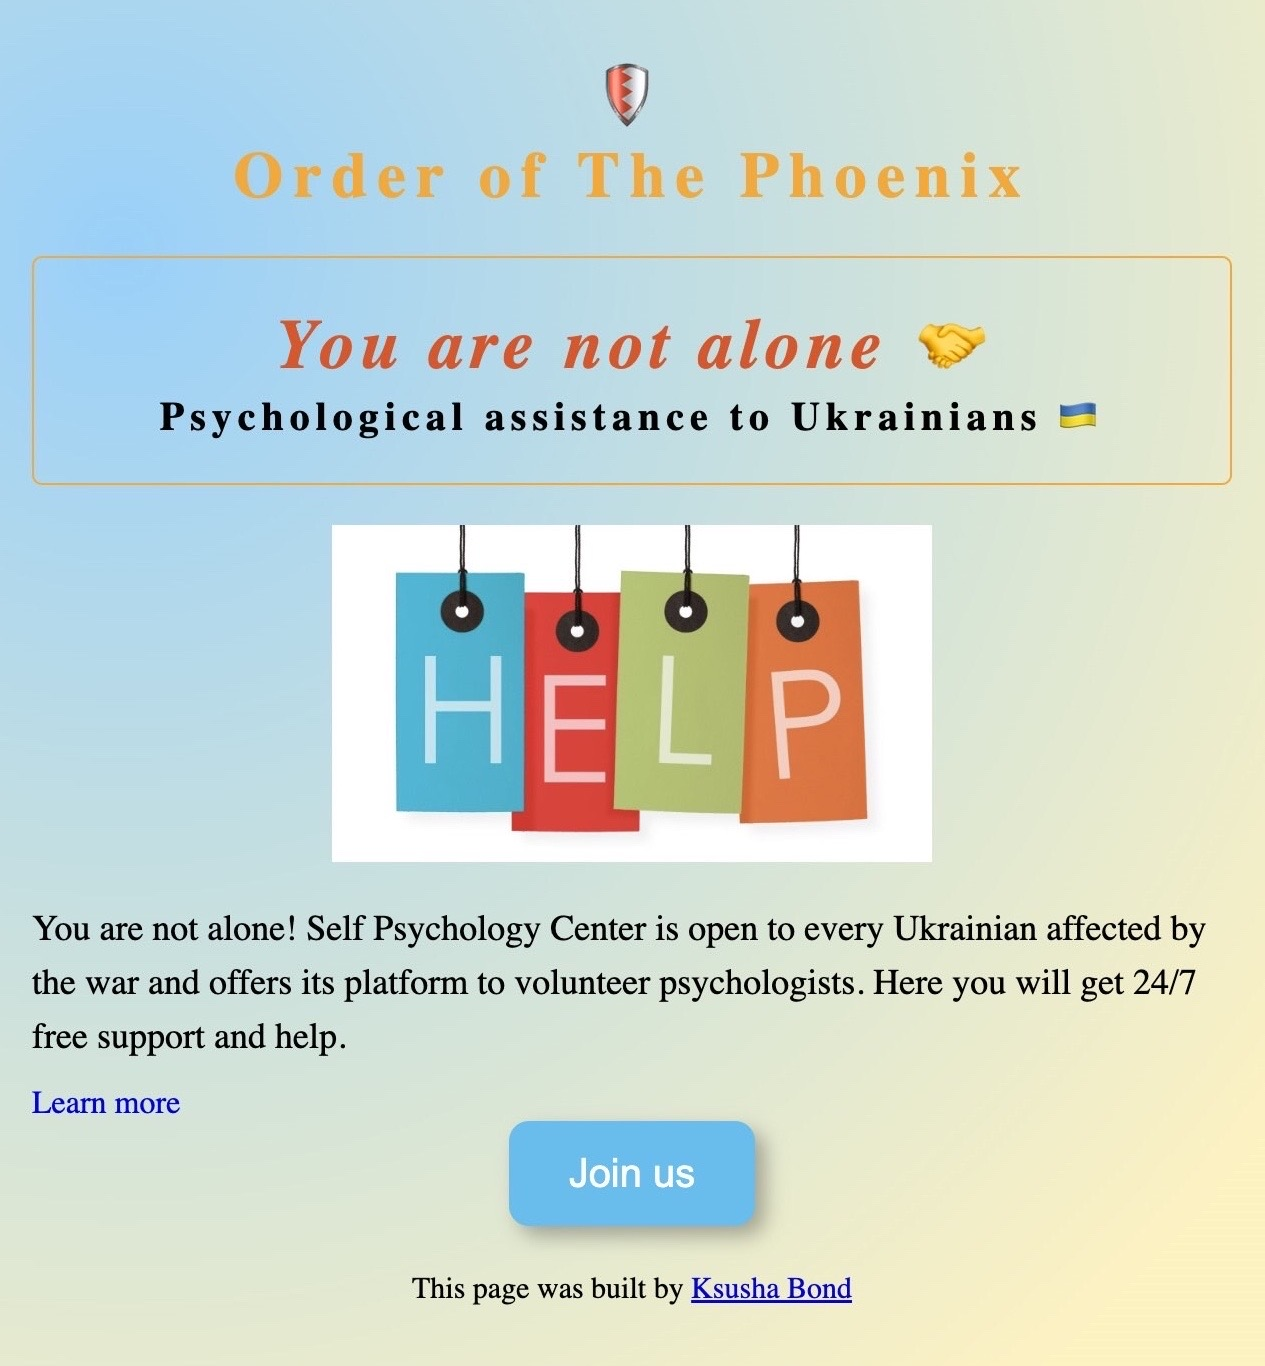
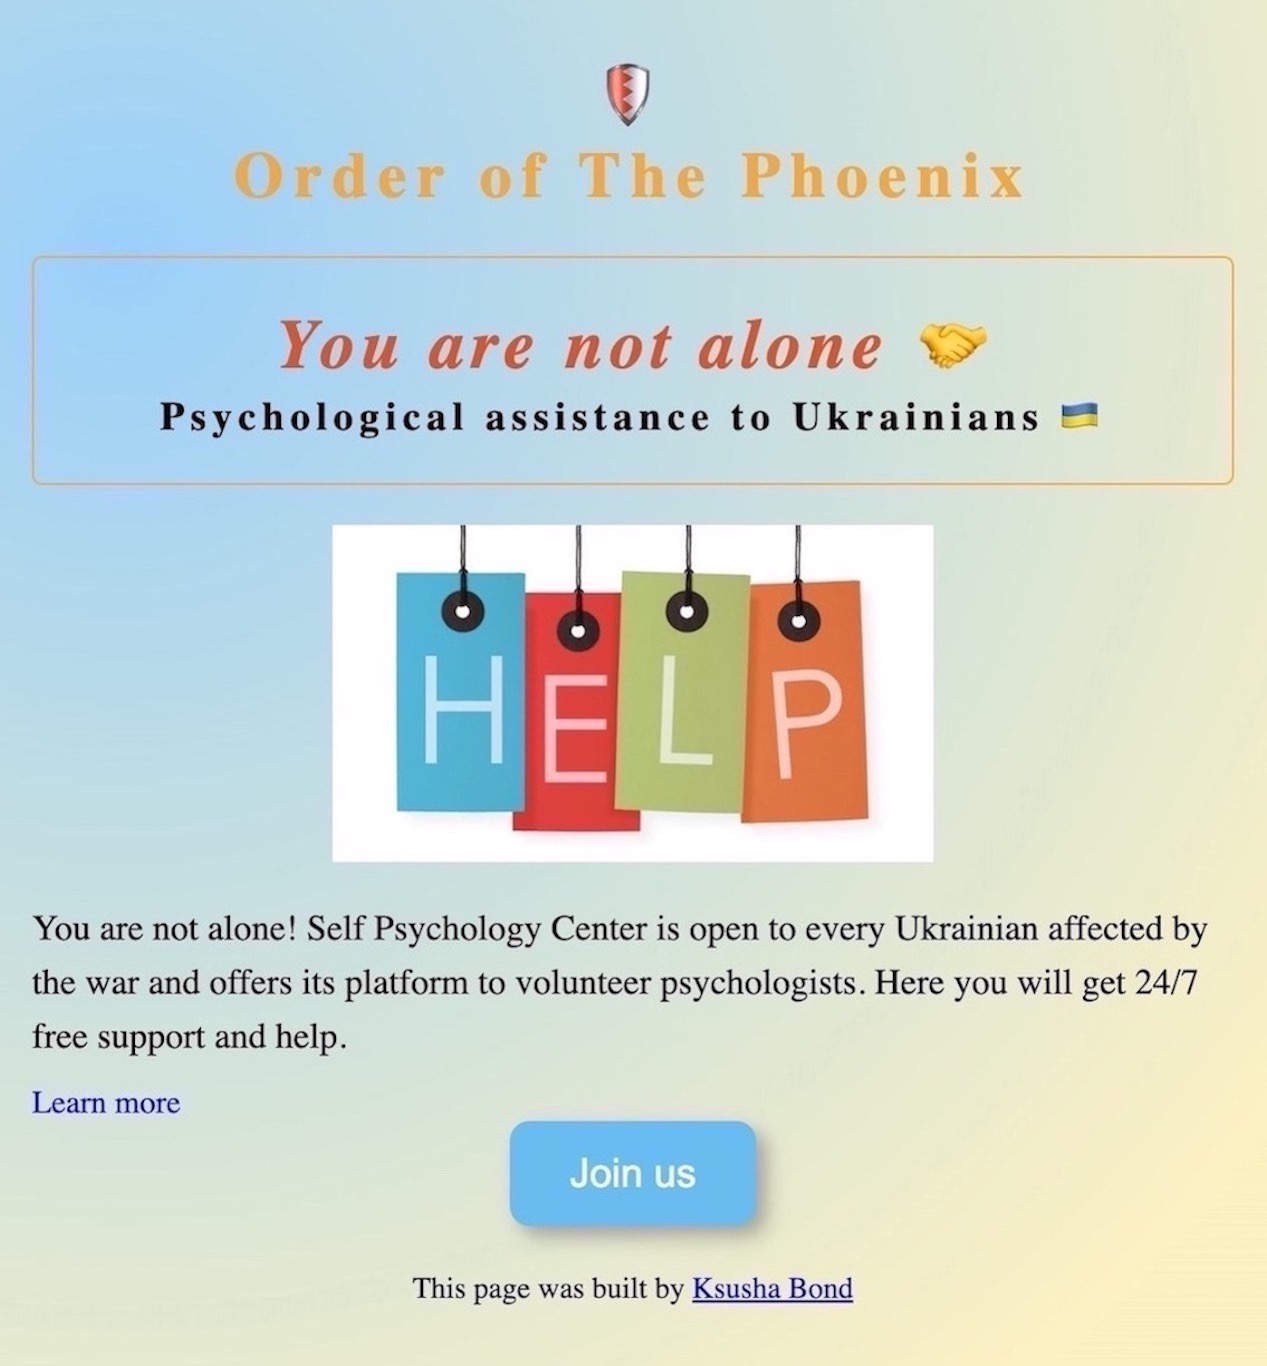
Built Work page

diff --git a/work.html b/work.html
@@ -32,27 +32,33 @@
   </head>
   <body>
     <div class="content-container container">
-      <div class="row">
-        <div class="col-lg-6">
-          <div class="content">
-            <h1 class="mb-4">About me</h1>
-
-            <p class="mb-4">
-              Everyone’s talking about coding, but where do you start? This path
-              will give you an introduction to the world of code and basic
-              concepts. By the end, you’ll know whether Data Science, Computer
-              Science or Web Development is right for you.
-            </p>
-            <a href="" class="btn btn-branding">See my projects</a>
+      <div class="content">
+        <h1 class="mb-5 text-center">Things I've been working on</h1>
+        <div class="row">
+          <div class="col-lg-6">
+            <img
+              src="images/psycho-help.jpg"
+              class="img-fluid shadow rounded"
+              alt=""
+              width="88%"
+            />
+            <h3 class="text-center">Psychologikal help project</h3>
+            <p class="text-center text-muted">Built with HTML and CSS</p>
           </div>
-        </div>
-        <div class="col-lg-6">
-          <img
-            src="images/oxana-photo.jpg"
-            width="400"
-            class="img-fluid rounded"
-            alt=""
-          />
+
+          <div class="col-lg-6">
+            <img
+              src="images/weather.jpg"
+              class="img-fluid mt-5 shadow rounded"
+              alt=""
+              width=""
+            />
+
+            <h3 class="text-center">Weather project</h3>
+            <p class="text-center text-muted">
+              Built with HTML, CSS and JavaScript
+            </p>
+          </div>
         </div>
       </div>
     </div>

diff --git a/styles/portfolio.css b/styles/portfolio.css
@@ -73,12 +73,19 @@ p {
 .project-description {
   padding: 90px 60px;
 }
-.about-section {
+
+.content-container {
   padding: 120px 60px;
 }
-.about-section-content {
+
+.content {
   margin: 40px;
 }
+.content h3 {
+  line-height: 1.5;
+  margin: 20px 0 0;
+}
+
 @media (max-width: 900px) {
   h1 {
     font-size: 66px;
@@ -99,15 +106,17 @@ p {
     text-align: center;
     padding: 0;
   }
-  .about-section {
+
+  .content-container {
     text-align: center;
     padding: 60px 0 0 0;
   }
 
-  .about-section h1 {
+  .content-container h1 {
     font-size: 60px;
   }
-  .about-section p {
+
+  .content-container p {
     font-size: 20px;
   }
 }
@@ -136,13 +145,16 @@ p {
   h3 {
     font-size: 24px;
   }
-  .about-section {
+
+  .content-container {
     padding: 0 10px 10px;
   }
-  .about-section h1 {
+
+  .content-container h1 {
     font-size: 36px;
   }
-  .about-section p {
+
+  .content-container p {
     font-size: 18px;
   }
 }

diff --git a/index.html b/index.html
@@ -84,7 +84,7 @@
           <div class="col d-none d-md-block">
             <img
               src="images/psycho-help.jpg"
-              class="img-fluid p-3 shadow rounded"
+              class="img-fluid shadow rounded"
               alt=""
               width="600"
             />
@@ -119,7 +119,7 @@
         <div class="col d-none d-md-block">
           <img
             src="images/weather.jpg"
-            class="img-fluid p-3 shadow rounded"
+            class="img-fluid shadow rounded"
             alt=""
             width="600"
           />
